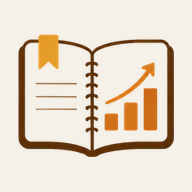
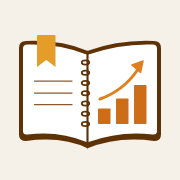
홈 화면·PWA·파비콘 아이콘을 새 로고(크림 바탕 책+그래프)로 교체
Claude-Session: https://claude.ai/code/session_01PJzWm5VBNFaCP7MD8mtbsN

Changed region(s): [[0.0833, 0.1667, 0.9167, 0.8333]]

diff --git a/static/index.html b/static/index.html
@@ -22,7 +22,7 @@
   <meta name="theme-color" content="#F5F0E8" media="(prefers-color-scheme: light)">
   <meta name="theme-color" content="#17110B" media="(prefers-color-scheme: dark)">
   <link rel="manifest" href="/static/manifest.webmanifest">
-  <link rel="icon" href="/static/brand/mark.png" type="image/png">
+  <link rel="icon" href="/static/icon.svg" type="image/svg+xml">
   <link rel="apple-touch-icon" href="/static/brand/touch-icon-192.png">
   <link rel="stylesheet" href="/static/style.css?v=8">
   <link rel="stylesheet" href="/static/fonts/noto/noto.css?v=1">
